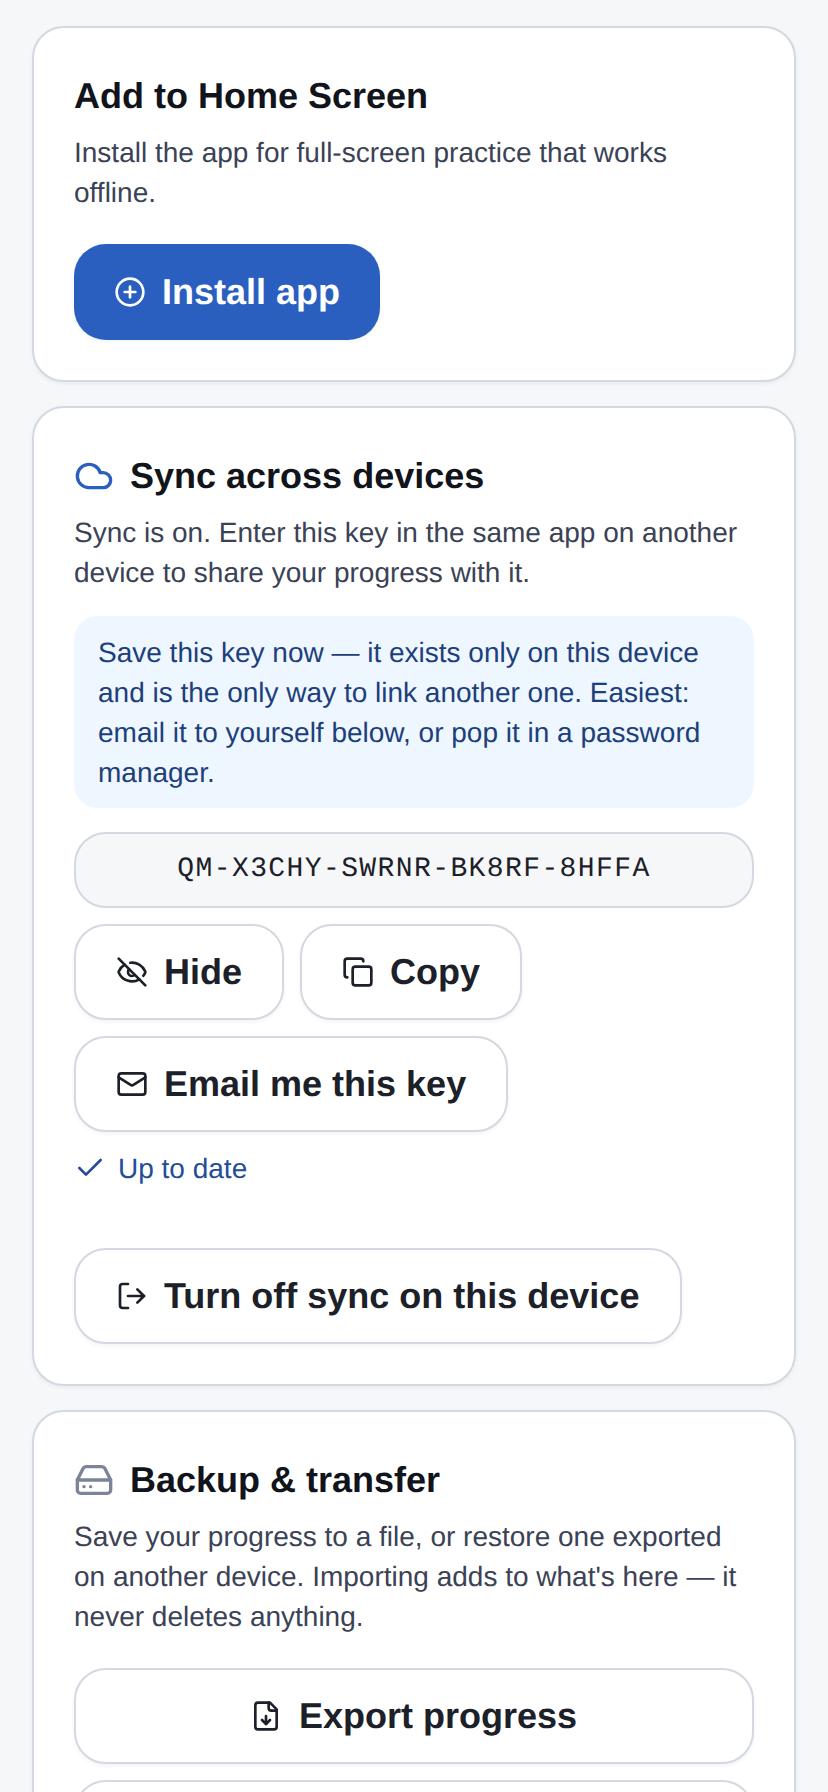
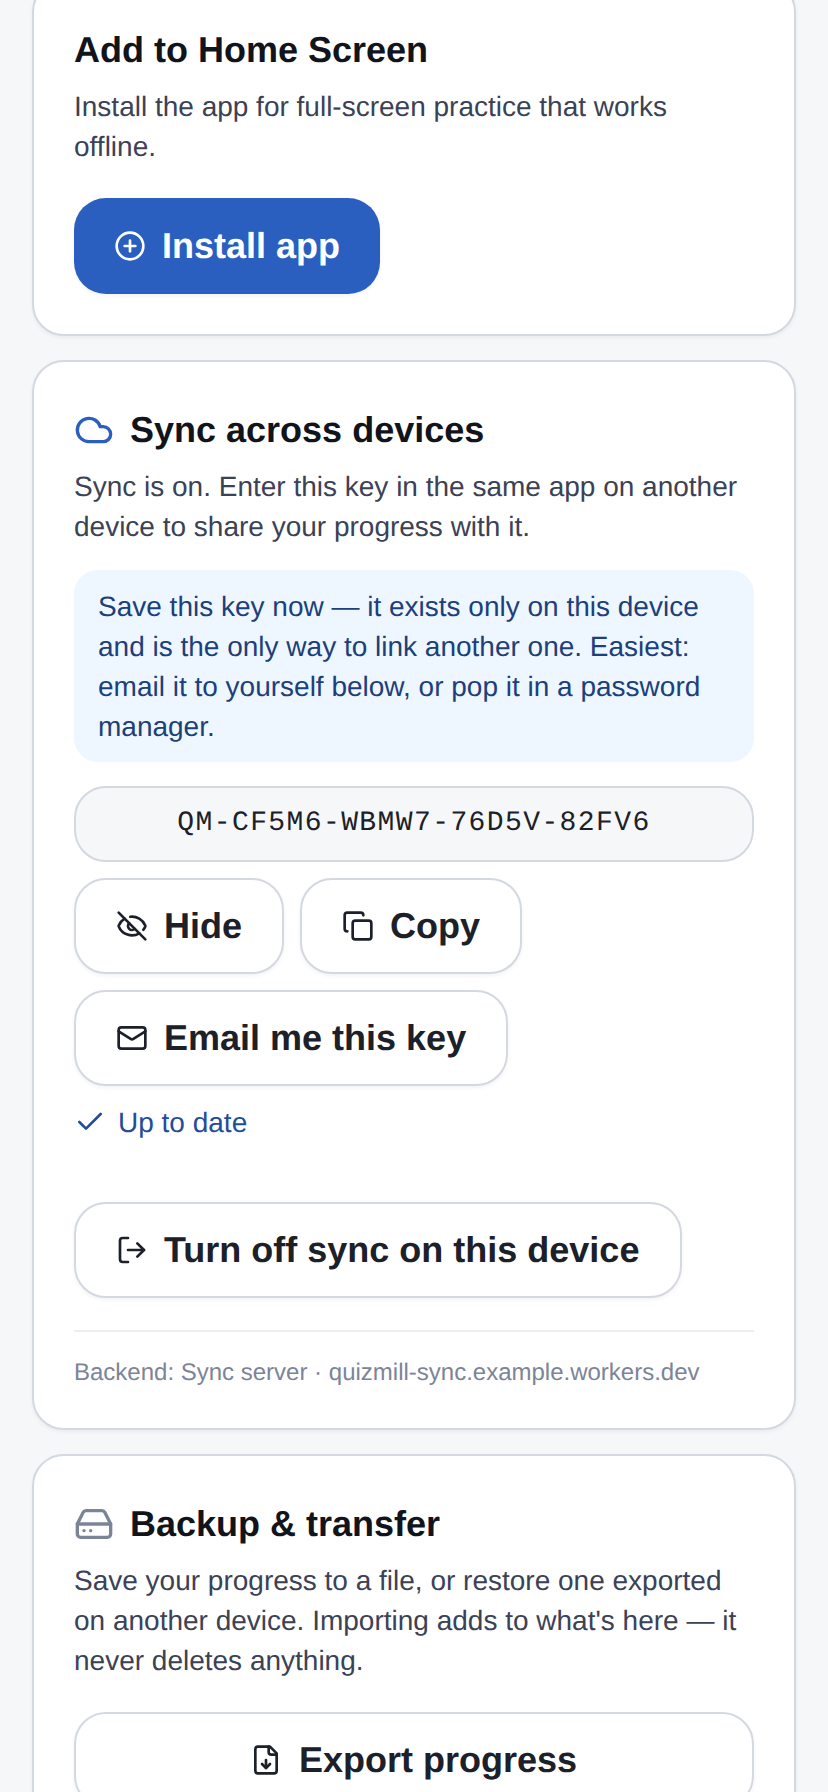
Show the active sync backend in Settings; document backend swapping
Every sync-settings card now carries a muted footer naming the backend
this build is wired to and its target host ("Backend: Sync server ·
quizmill-sync.acme.workers.dev" / "Backend: Supabase · abcd.supabase.co"),
via syncBackendInfo() on the provider registry (providers may supply a
describe() label; custom ones fall back to their kind). A deployed app
now answers "where does my data go?" from Settings instead of requiring
a peek at build env vars.

docs/sync-protocol.md gains a "Which backend is an app using? Swapping
backends" section: a swap is env-var change + rebuild, and the
local-first design makes it automatic for data — each device bulk
re-uploads its full local history on first sign-in to the new backend
(the migration flag is keyed by backend-specific user id), the old
backend's rows just go stale, and queued writes drain safely to the new
target.

Claude-Session: https://claude.ai/code/session_01WCUH5GxgqXn354FSVs79LQ

diff --git a/src/lib/syncBackend.ts b/src/lib/syncBackend.ts
@@ -79,6 +79,9 @@ export interface SyncBackendProvider {
   isConfigured(): boolean;
   /** Build the backend. Called at most once; the instance is cached. */
   create(): SyncBackend;
+  /** Short human label for the Settings card footer, e.g.
+   *  "Sync server · example.workers.dev". Falls back to the kind. */
+  describe?(): string;
 }
 
 const providers: (SyncBackendProvider & { instance?: SyncBackend })[] = [];
@@ -126,12 +129,36 @@ export function getSyncBackend(): SyncBackend | null {
   return p.instance;
 }
 
+export interface SyncBackendInfo {
+  kind: string;
+  /** Human-readable label incl. the target host — shown in Settings so a
+   *  deployed app always answers "where does my data sync to?". */
+  label: string;
+}
+
+/** Identity of the active backend, or null when sync isn't configured. */
+export function syncBackendInfo(): SyncBackendInfo | null {
+  const p = activeProvider();
+  if (!p) return null;
+  return { kind: p.kind, label: p.describe?.() ?? p.kind };
+}
+
+/** The hostname of a URL, or the raw string when it doesn't parse. */
+function hostOf(url: string): string {
+  try {
+    return new URL(url).host;
+  } catch {
+    return url;
+  }
+}
+
 // ── Built-ins ───────────────────────────────────────────────────────────
 
 registerSyncBackendProvider({
   kind: 'http',
   isConfigured: () => Boolean(process.env.NEXT_PUBLIC_SYNC_URL),
   create: () => httpBackend,
+  describe: () => `Sync server · ${hostOf(process.env.NEXT_PUBLIC_SYNC_URL ?? '')}`,
 });
 
 registerSyncBackendProvider({
@@ -142,4 +169,5 @@ registerSyncBackendProvider({
         process.env.NEXT_PUBLIC_SUPABASE_PUBLISHABLE_KEY,
     ),
   create: () => supabaseBackend,
+  describe: () => `Supabase · ${hostOf(process.env.NEXT_PUBLIC_SUPABASE_URL ?? '')}`,
 });

diff --git a/tests/sync-backend.test.ts b/tests/sync-backend.test.ts
@@ -2,6 +2,7 @@ import { afterEach, beforeEach, describe, expect, it } from 'vitest';
 import {
   getSyncBackend,
   registerSyncBackendProvider,
+  syncBackendInfo,
   syncBackendKind,
   type SyncBackend,
 } from '../src/lib/syncBackend';
@@ -73,6 +74,25 @@ describe('sync backend registry', () => {
     expect(getSyncBackend()).toBeNull();
   });
 
+  it('names the active backend with its target host (syncBackendInfo)', () => {
+    expect(syncBackendInfo()).toBeNull(); // nothing configured
+    process.env.NEXT_PUBLIC_SYNC_URL = 'https://quizmill-sync.acme.workers.dev';
+    expect(syncBackendInfo()).toEqual({
+      kind: 'http',
+      label: 'Sync server · quizmill-sync.acme.workers.dev',
+    });
+    delete process.env.NEXT_PUBLIC_SYNC_URL;
+    process.env.NEXT_PUBLIC_SUPABASE_URL = 'https://abcd.supabase.co';
+    process.env.NEXT_PUBLIC_SUPABASE_PUBLISHABLE_KEY = 'pk';
+    expect(syncBackendInfo()).toEqual({
+      kind: 'supabase',
+      label: 'Supabase · abcd.supabase.co',
+    });
+  });
+
+  // NOTE: keep this after the info test — the custom provider registered
+  // here is always-configured and prepended, so it shadows the built-ins
+  // for the rest of the file.
   it('lets a custom provider register, win via prepend, and caches its instance', () => {
     let created = 0;
     registerSyncBackendProvider(
@@ -88,6 +108,8 @@ describe('sync backend registry', () => {
     );
     process.env.NEXT_PUBLIC_SYNC_URL = 'https://sync.example.dev';
     expect(syncBackendKind()).toBe('custom-test'); // prepended → beats http
+    // No describe() on the provider → the info label falls back to the kind.
+    expect(syncBackendInfo()).toEqual({ kind: 'custom-test', label: 'custom-test' });
     const a = getSyncBackend();
     const b = getSyncBackend();
     expect(a).toBe(b);

diff --git a/src/components/SyncStatusLine.tsx b/src/components/SyncStatusLine.tsx
@@ -1,6 +1,20 @@
 'use client';
 
 import { Check, CloudOff, RefreshCw } from 'lucide-react';
+import { syncBackendInfo } from '@/lib/syncBackend';
+
+/** Muted one-liner naming the backend this build syncs to (kind + host) —
+ *  so any deployed app answers "where does my data go?" at a glance.
+ *  Shared footer of both sync-settings cards. */
+export function SyncBackendFooter() {
+  const info = syncBackendInfo();
+  if (!info) return null;
+  return (
+    <p className="mt-4 border-t border-ink-100 pt-3 text-xs text-ink-400" data-testid="sync-backend">
+      Backend: {info.label}
+    </p>
+  );
+}
 
 /** Live one-liner describing where cloud sync is right now: offline (with a
  *  count of work held locally), actively syncing, or fully caught up.

diff --git a/src/components/SyncSettings.tsx b/src/components/SyncSettings.tsx
@@ -13,7 +13,7 @@ import { type ComponentType } from 'react';
 import { SYNC_CONFIGURED, authRedirectUrl, getSupabase } from '@/lib/supabase';
 import { syncBackendKind } from '@/lib/syncBackend';
 import { SyncKeySettings } from '@/components/SyncKeySettings';
-import { SyncStatusLine } from '@/components/SyncStatusLine';
+import { SyncBackendFooter, SyncStatusLine } from '@/components/SyncStatusLine';
 
 // Each backend brings its own sign-in UI, registered by kind. Custom
 // backend providers (see registerSyncBackendProvider in
@@ -230,6 +230,7 @@ function SupabaseSyncSettings() {
           {error}
         </p>
       )}
+      <SyncBackendFooter />
     </div>
   );
 }

diff --git a/src/components/SyncKeySettings.tsx b/src/components/SyncKeySettings.tsx
@@ -14,7 +14,7 @@ import {
   Share2,
 } from 'lucide-react';
 import { Button, buttonStyles } from '@/components/ui/Button';
-import { SyncStatusLine } from '@/components/SyncStatusLine';
+import { SyncBackendFooter, SyncStatusLine } from '@/components/SyncStatusLine';
 import { APP_CONFIG } from '@/config';
 import { useSyncStatus } from '@/lib/useStorage';
 import {
@@ -236,6 +236,7 @@ export function SyncKeySettings() {
           {error}
         </p>
       )}
+      <SyncBackendFooter />
     </div>
   );
 }

diff --git a/docs/sync-protocol.md b/docs/sync-protocol.md
@@ -121,6 +121,39 @@ into the queue. Emit `onAuthChange(userId)` whenever sign-in state
 changes; the engine pulls + (first time per user) bulk-pushes on
 sign-in.
 
+## Which backend is an app using? Swapping backends
+
+**Seeing it:** every sync-settings card carries a muted footer naming the
+active backend and its target host — e.g. `Backend: Sync server ·
+quizmill-sync.acme.workers.dev` or `Backend: Supabase · abcd.supabase.co`
+— so any deployed app answers "where does my data go?" from Settings. No
+sync card at all means the build has no backend configured (pure-local).
+At build time, the env vars are the source of truth
+(`syncBackendInfo()`/`syncBackendKind()` in code).
+
+**Swapping:** the backend is a build-time choice, so a swap is: change
+the env vars, rebuild, redeploy. The local-first design makes this safe
+and automatic for data:
+
+1. Each device keeps its full history in localStorage — the cloud is
+   only a mirror, so nothing is lost by switching.
+2. Sign-in state does not carry across backends: users sign in once on
+   the new backend (create/enter a sync key, or the email code for
+   Supabase).
+3. On that first sign-in the engine pulls (empty on a fresh backend),
+   then bulk-pushes the device's entire local history — the
+   once-per-user migration flag is keyed by backend-specific user id, so
+   the re-upload happens automatically per device. Multi-device users
+   sign each device in with the same key/email and the merge unions
+   their histories, exactly like a normal new-device link.
+4. The old backend's rows just go stale (delete them whenever). Any
+   queued-but-unsent writes drain to the new backend — ops are
+   idempotent upserts of local rows, and the bulk push covers them
+   regardless.
+
+For retiring a device at the same time, Settings → Backup & transfer
+bridges with a file instead.
+
 ## File export/import
 
 `src/lib/transfer.ts` + the Settings "Backup & transfer" card write the
